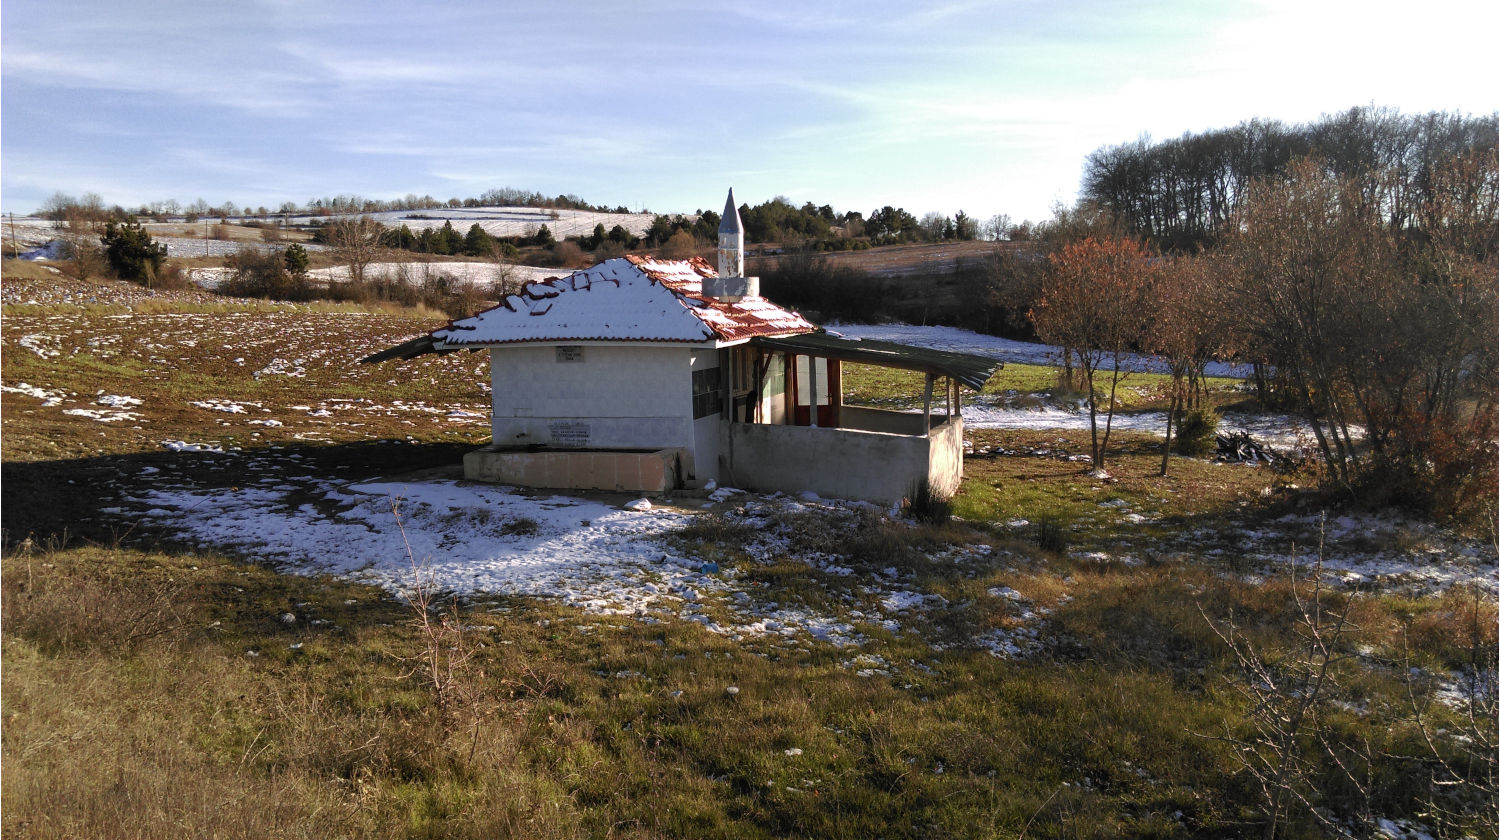
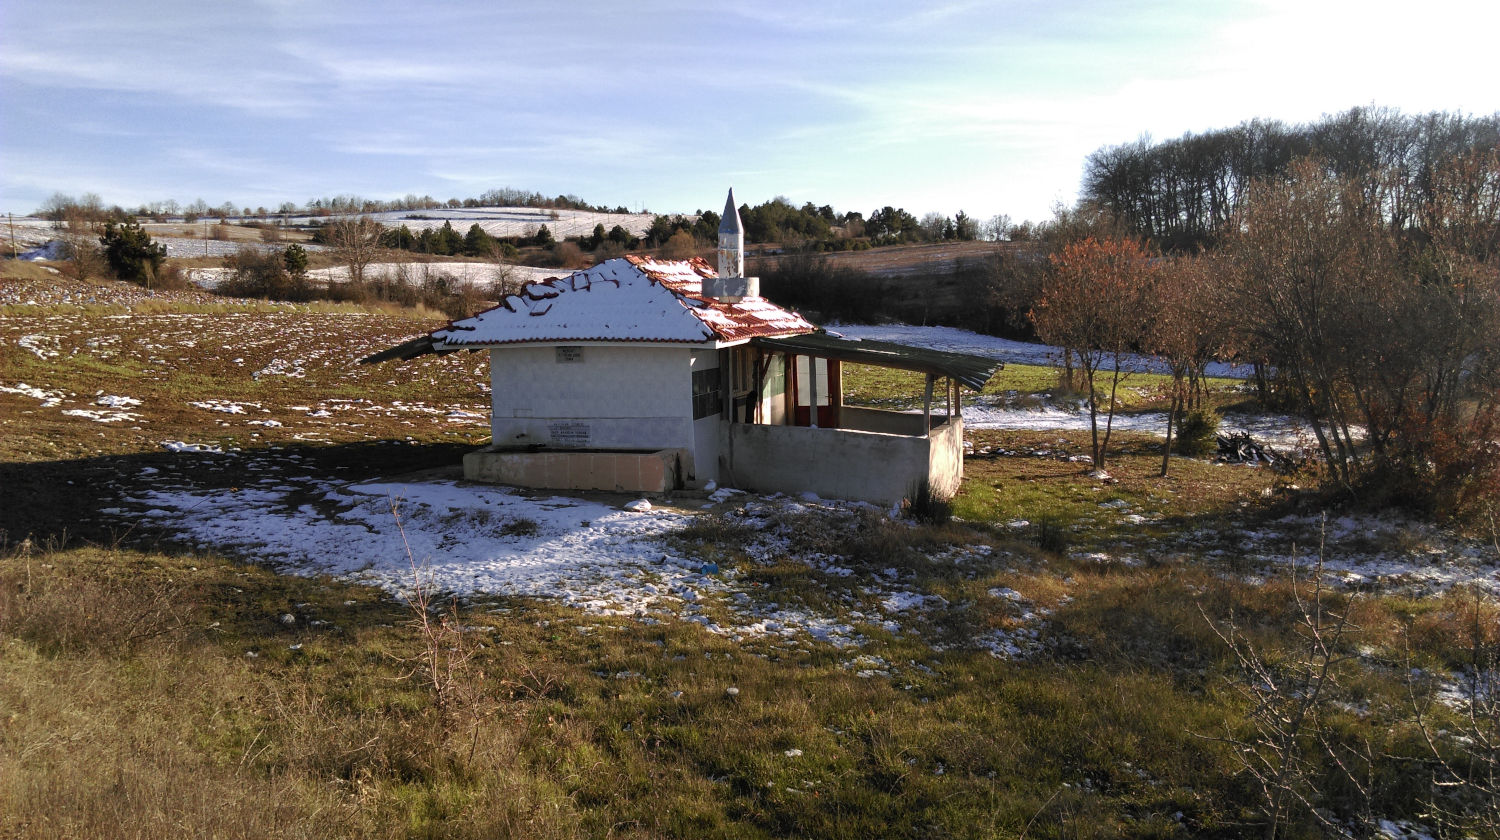
reduce whitespace at edge of images - layers 1500x841 not 1498x840

diff --git a/newScripts.js b/newScripts.js
@@ -81,7 +81,7 @@ function mobileSliderNav(touchends) {
     startX < endX ? move(1) : move(-1);
   } else {
     playPause()
-    temporaryPlayPauseButton(); // I'm going to give this a **provisional** pass - it looks like it works on my android. There were some bugs I couldn't replicate. If it doesn't work, and you decide to delete, be aware that there is css styling for #playPause that you should delete also. 
+    temporaryPlayPauseButton(); // I'm going to give this a **provisional** pass - it looks like it works on my android. There were some bugs I couldn't replicate. If it doesn't work, and you decide to delete, be aware that there is mobile css styling for #playPause that you should delete also.
   }
 }
 

diff --git a/test.html b/test.html
@@ -1,0 +1,22 @@
+<!DOCTYPE html>
+<html lang="en">
+<head>
+  <meta charset="UTF-8">
+  <meta name="viewport" content="width=device-width, initial-scale=1.0">
+  <meta http-equiv="X-UA-Compatible" content="ie=edge">
+  <title>Document</title>
+  <style>
+    body {background-color: black;}
+    img {
+      max-width: 4000px;
+      padding: 300px;
+    }
+  </style>
+</head>
+<body>
+  <img src="./appropriatelySizedImages/4.jpg">
+    <img src="./appropriatelySizedImages/19.jpg">
+</body>
+</html>
+
+Use this website to check images for poor boundaries.

diff --git a/index.html b/index.html
@@ -115,7 +115,7 @@
     </div>
     <section  id="About_me">
       <img class = "selfie" src="smiley selfie.jpg"/>  <!-- TODO: resize this -->
-      <h2>Hi, my name is Ivo.</h2>
+      <h2>Hi, my name is Ivo. <a href="./test.html">test</a></h2>
       <p>Here are some facts about me:</p>
       <ul>
         <li>I'm 25 years old.</li>
